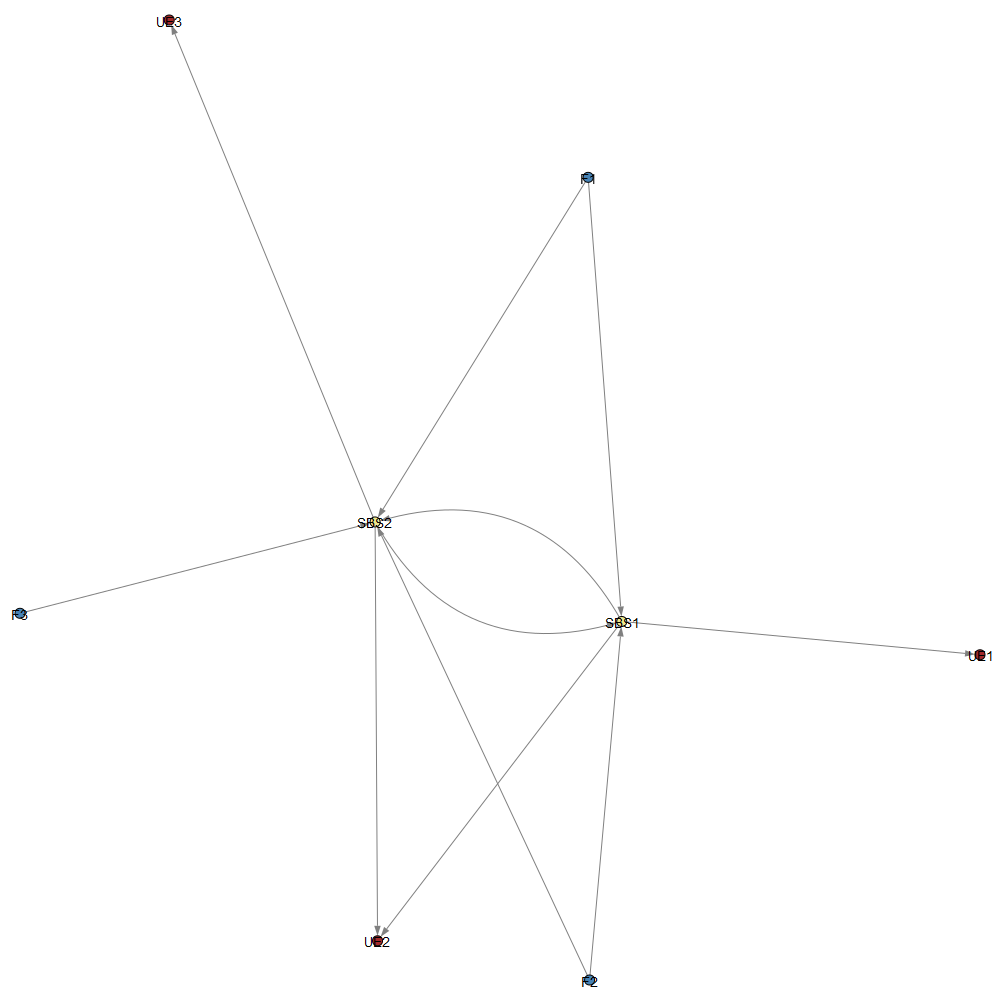
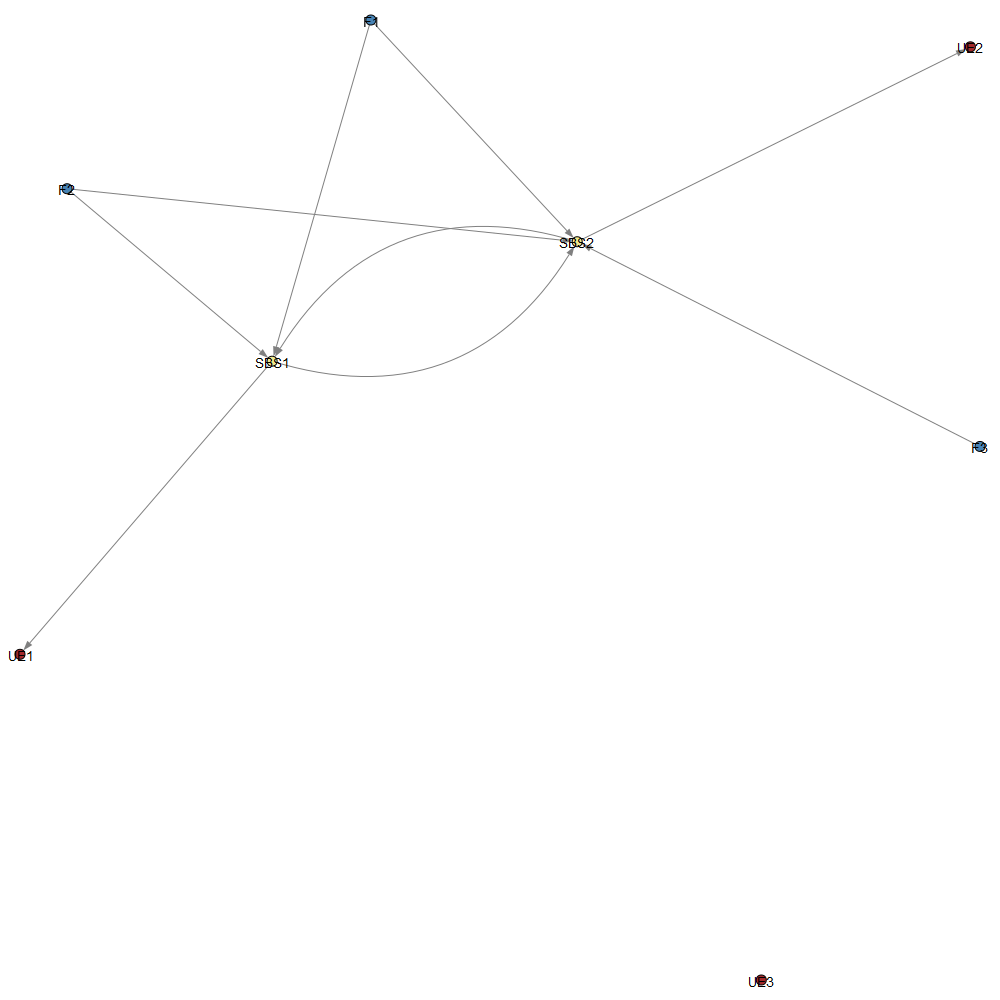
insert config to create graph in mobility and insert orequests one by one

diff --git a/ModelingV0/application/discrete_event_manager.py b/ModelingV0/application/discrete_event_manager.py
@@ -73,6 +73,7 @@ path_dataset = ''
 save_data = False
 path_output = ''
 plot_graph = False
+plot_graph_mobility = False
 path_graph = ''
 enable_ceil_nodes_capacity = False
 
@@ -114,7 +115,7 @@ def application():
 
     if plot_graph:
         data.set_graph_adj_matrix()
-        picture()
+        picture(path_graph)
 
     # min_cost_flow = pywrapgraph.SimpleMinCostFlow()
     # pywraplp.Solver('test', pywraplp.Solver.GUROBI_MIXED_INTEGER_PROGRAMMING)
@@ -167,31 +168,37 @@ def bulk_poisson_req_zipf(num_alpha, avg_size_bulk, num_events):
         sources = get_req(zipf, init, qtd_req)
         sinks = r.Request.generate_sinks_random(qtd_req, key_index_ue)
 
-        # sources_unreplicated,sinks_unreplicated = remove_replicate_reqs(pd,sources,sinks)
+        #sources_unreplicated,sinks_unreplicated = remove_replicate_reqs(pd,sources,sinks)
         insert_reqs(sources, sinks)
-        paths,hosts = create_model(sources, sinks, event)
-        handler.paths = paths
-        handler.hosts = hosts
+
+        for req in range(qtd_req):
+            source = sources[req]
+            sink = sinks[req]
+
+            source = [source]
+            sink = [sink]
+            paths, hosts = create_model(source, sink, event)
+            handler.paths = paths
+            handler.hosts = hosts
 
         if paths is not None:
             start_time = time.time()
             handler.update_data()
             print(CYAN, "UPDATE DATA TIME --- %s seconds ---" % round((time.time() - start_time), 4), RESET)
-
-        if show_reallocation:
-            handler.show_reallocation()
-        if paths is not None:
+            if show_reallocation:
+                handler.show_reallocation()
             pd.insert_req(paths,hosts,event+1)
             pd.calc_server_use(paths,event+1)
+        if plot_graph_mobility:
             data.set_graph_adj_matrix()
-            picture("..\\output\\graph\\instance_3_{0}.png".format(event+1),)
+            picture(path_graph+"_{0}".format(event+1))
         init = qtd_req
 
     if show_all_paths:
         pd.show_paths()
-    if save_data and paths is not None:
-        pd.calc_rate_admission_requests(len(handler.paths), sum(bulks))
-
+    if paths is not None:
+        pd.calc_rate_admission_requests(len(handler.old_paths), sum(bulks))
+    if save_data:
         pd.save_data(path_output)
     if plot_data:
         pd.plot()
@@ -375,7 +382,8 @@ def show_vars():
     # id.show_vars_dict()
 
 
-def picture(path = path_graph):
+def picture(path):
+    path_with_ext = path + ".png"
     color_dict = {"F": "#4682B4", "M": "#3CB371", "S": "#F0E68C", "U": "#A52A2A"}
 
     g = ig.Graph(directed=1)
@@ -390,7 +398,7 @@ def picture(path = path_graph):
                 g.add_edge(name_orig, name_dest)
     
     g.vs["color"] = [color_dict[node[0:1]] for node in g.vs["name"]]
-    ig.plot(g, vertex_label=key_nodes, target= path, edge_color="#808080", vertex_size=10, edge_arrow_size=0.7,
+    ig.plot(g, vertex_label=key_nodes, target = path_with_ext, edge_color="#808080", vertex_size=10, edge_arrow_size=0.7,
             bbox=(1000, 1000), )
 
 
@@ -457,7 +465,7 @@ def load_is_mobile_enum(mob):
 
 
 def load_config(config: object):
-    global show_log, show_results, show_path, show_var, show_par, plot_distribution, plot_data, show_all_paths, show_reallocation, path_dataset, save_data, path_output, plot_graph, path_graph, enable_ceil_nodes_capacity, avg_qtd_bulk, num_events, num_alpha, s, t
+    global show_log, show_results, show_path, show_var, show_par, plot_distribution, plot_data, show_all_paths, show_reallocation, path_dataset, save_data, path_output, plot_graph, plot_graph_mobility, path_graph, enable_ceil_nodes_capacity, avg_qtd_bulk, num_events, num_alpha, s, t
     show_log = config["show_log"]
     show_results = config["show_results"]
     show_path = config["show_path"]
@@ -473,6 +481,7 @@ def load_config(config: object):
     save_data = config["save_data"]
     path_output = config["path_output"]
     plot_graph = config["plot_graph"]
+    plot_graph_mobility = config["plot_graph_mobility"]
     path_graph = config["path_graph"]
     show_reallocation = config["show_reallocation"]
     enable_ceil_nodes_capacity = config["enable_ceil_nodes_capacity"]

diff --git a/ModelingV0/application/optimization/optimize.py b/ModelingV0/application/optimization/optimize.py
@@ -359,7 +359,7 @@ class HandleData:
     hosts = None
     paths = None
     __old_hosts = None
-    __old_paths = None
+    old_paths = None
     __data = Data()
 
     def __init__(self, data):
@@ -547,7 +547,7 @@ class HandleData:
     # This follow method update data of the problem.
     def update_data(self):
         self.__old_hosts = self.hosts
-        self.__old_paths = self.paths
+        self.old_paths = self.paths
         sense = -1
         if self.__data.mobility == Mobility.IS_MOBILE:
             sense = self.__update_ue_position()
@@ -581,7 +581,7 @@ class HandleData:
         return sense
 
     def show_reallocation(self):
-        for op, np in zip(self.__old_paths, self.paths[:len(self.__old_paths)]):
+        for op, np in zip(self.old_paths, self.paths[:len(self.old_paths)]):
             if op != np:
                 print("SHIFT PATH [{0}]".format(self.paths.index(np)))
             else:
